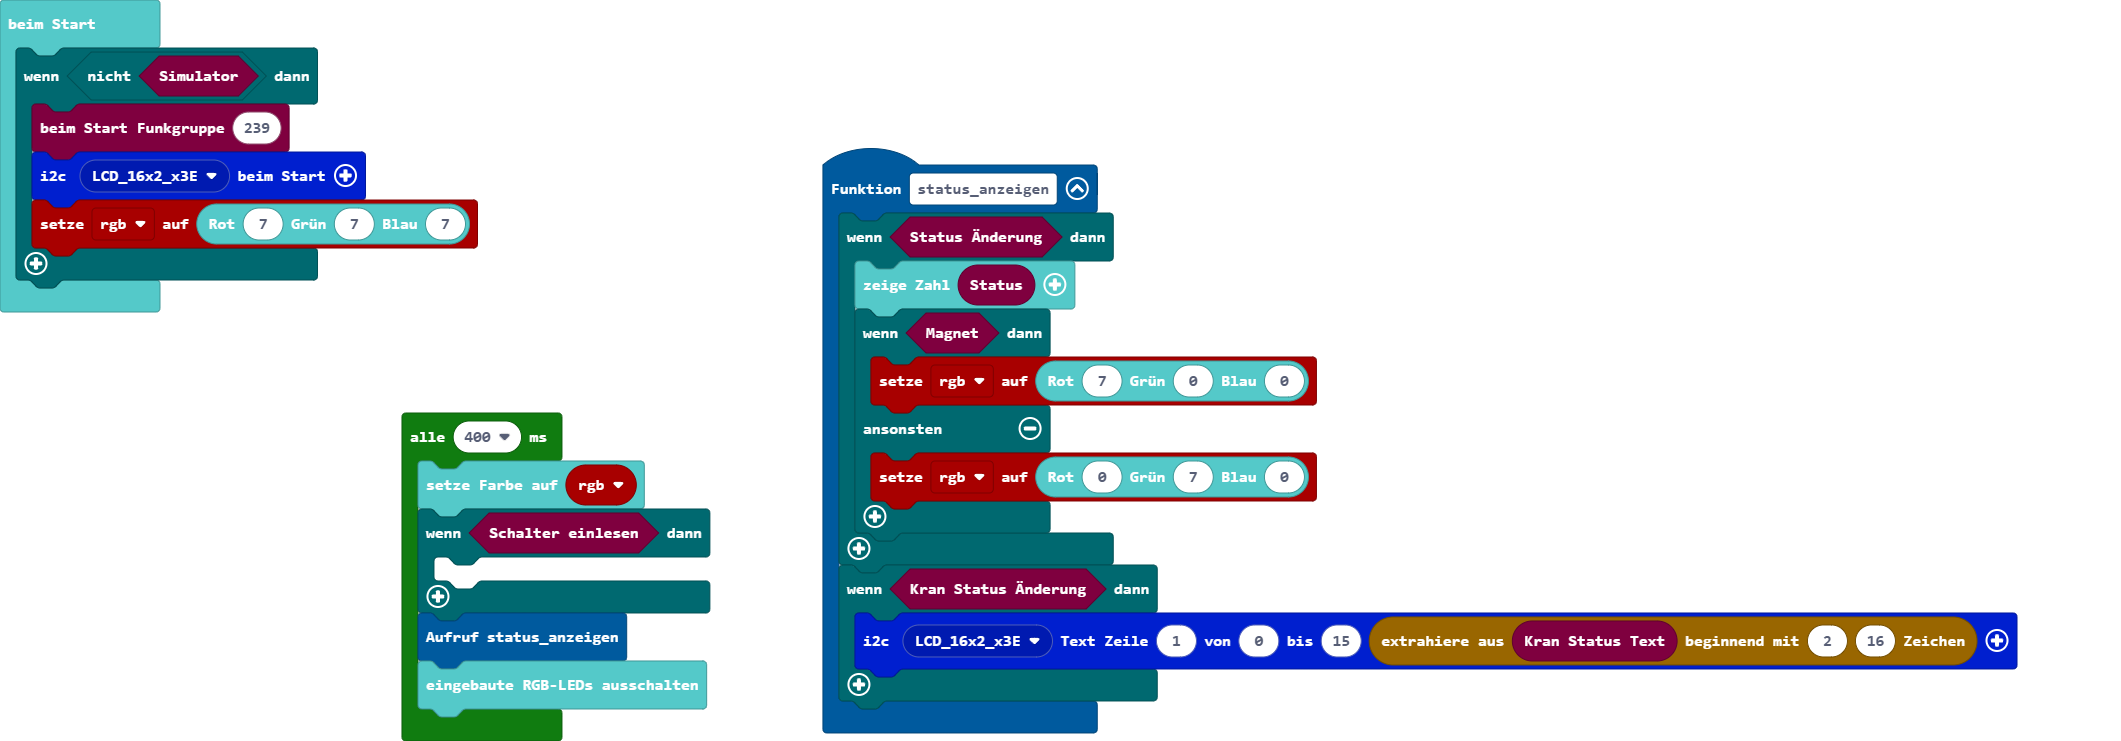
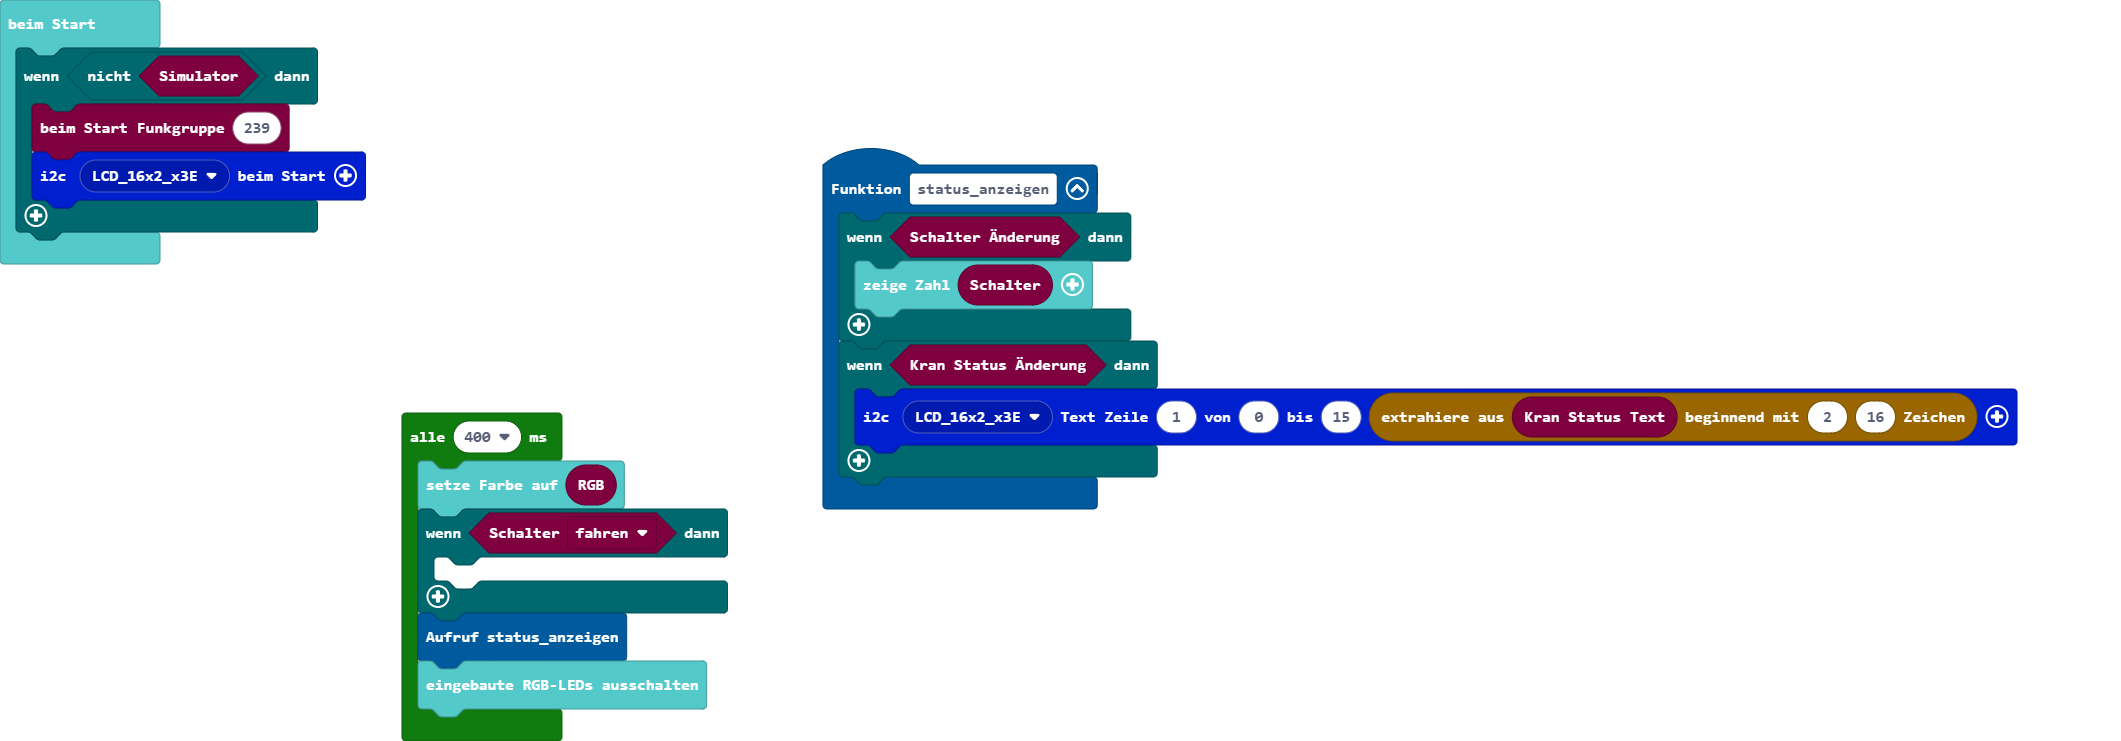
Aktualisiere pxt.json, main.blocks, main.ts, multiswitch.ts

diff --git a/multiswitch.ts b/multiswitch.ts
@@ -13,11 +13,12 @@ namespace kran { // multiswitch.ts
         fehler = 0
     }
 
+    let n_rgb = basic.rgb(7, 7, 7)
     let n_Status_changed = true
     let n_Status = eStatus.fehler
     let n_Magnet = false
 
-    //% group="Status"
+    //% group="Schalter"
     //% block="Schalter einlesen" weight=8
     export function readSwitch(): boolean {
         if (pins.i2cWriteBuffer(i2cgroveMultiswitch_x03, Buffer.fromArray([i2c_CMD_GET_DEV_EVENT])) != 0) {
@@ -58,22 +59,30 @@ namespace kran { // multiswitch.ts
     }
 
 
-    //% group="Status"
-    //% block="Status Änderung" weight=6
-    export function chStatus(): boolean { return n_Status_changed }
+    //% group="Schalter"
+    //% block="Schalter Änderung" weight=6
+    export function chSwitch(): boolean {
+        if (n_Magnet)
+            n_rgb = basic.rgb(7, 0, 0)
+        else
+            n_rgb = basic.rgb(0, 7, 0)
+        return n_Status_changed
+    }
 
-    //% group="Status"
-    //% block="Status %pStatus" weight=5
-    export function isStatus(pStatus: eStatus): boolean { return pStatus == n_Status }
+    //% group="Schalter"
+    //% block="Schalter %pStatus" weight=5
+    export function isSwitch(pStatus: eStatus): boolean { return pStatus == n_Status }
 
-    //% group="Status"
-    //% block="Status" weight=4
-    export function getStatus(): eStatus { return n_Status }
+    //% group="Schalter"
+    //% block="Schalter" weight=4
+    export function getSwitch(): eStatus { return n_Status }
 
-    //% group="Status"
+    //% group="Schalter"
     //% block="Magnet" weight=3
-    export function getMagnet(): boolean { return n_Magnet }
+    export function getMagnet() { return n_Magnet }
 
-
+    //% group="Schalter"
+    //% block="RGB" weight=3
+    export function getRGB() { return n_rgb }
 
 } // multiswitch.ts

diff --git a/main.ts b/main.ts
@@ -1,25 +1,18 @@
 function status_anzeigen () {
-    if (kran.chStatus()) {
-        basic.showNumber(kran.getStatus())
-        if (kran.getMagnet()) {
-            rgb = basic.rgb(7, 0, 0)
-        } else {
-            rgb = basic.rgb(0, 7, 0)
-        }
+    if (kran.chSwitch()) {
+        basic.showNumber(kran.getSwitch())
     }
     if (kran.receivedStringChanged()) {
         lcd16x2rgb.writeText(lcd16x2rgb.lcd16x2_eADDR(lcd16x2rgb.eADDR_LCD.LCD_16x2_x3E), 1, 0, 15, kran.receivedString().substr(2, 16))
     }
 }
-let rgb = 0
 if (!(kran.simulator())) {
     kran.beimStart(239)
     lcd16x2rgb.initLCD(lcd16x2rgb.lcd16x2_eADDR(lcd16x2rgb.eADDR_LCD.LCD_16x2_x3E))
-    rgb = basic.rgb(7, 7, 7)
 }
 loops.everyInterval(400, function () {
-    basic.setLedColor(rgb)
-    if (kran.readSwitch()) {
+    basic.setLedColor(kran.getRGB())
+    if (kran.isSwitch(kran.eStatus.fahren)) {
     	
     }
     status_anzeigen()
